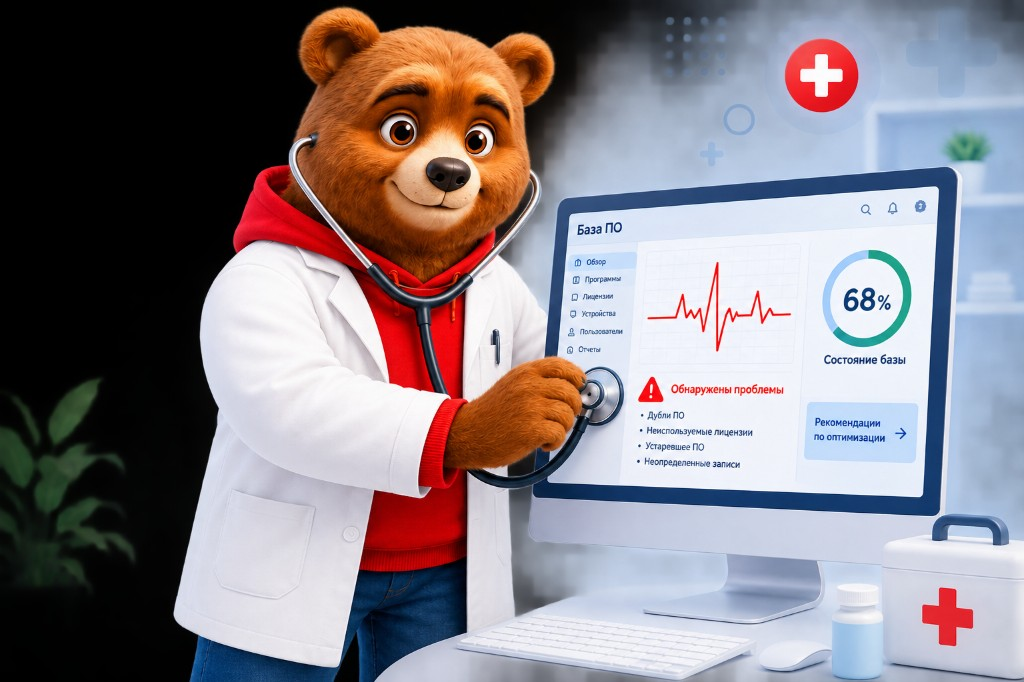
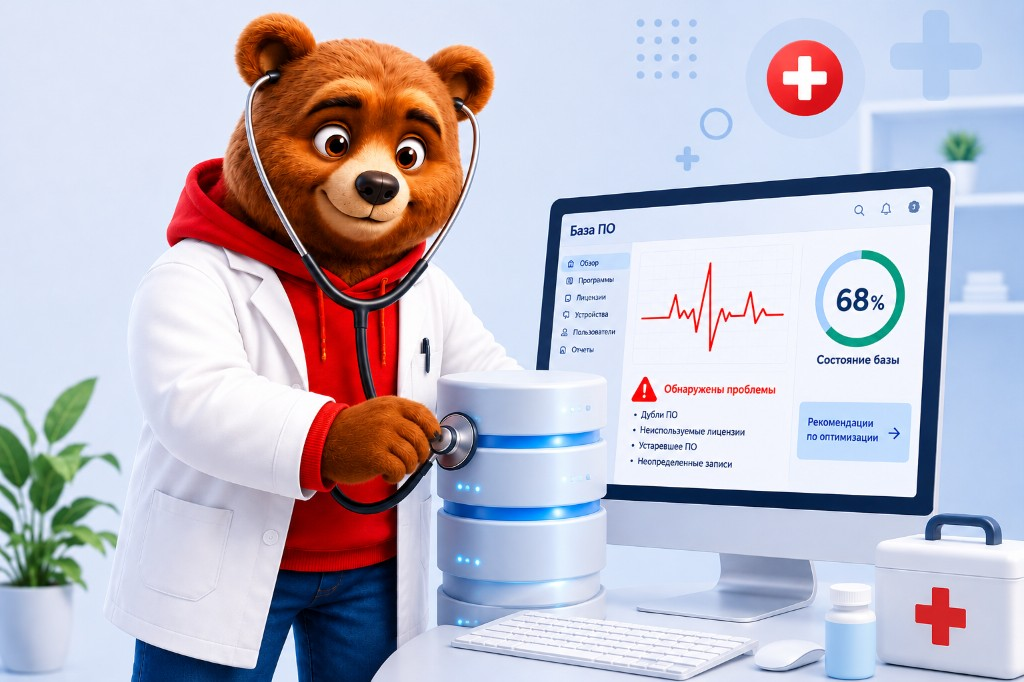
Заменить визуал врезки чекапа базы ПО.

diff --git a/klinika-b/index.html b/klinika-b/index.html
@@ -78,7 +78,7 @@
         </div>
       </div>
       <aside class="checkup-callout">
-        <img class="checkup-callout__img" src="assets/checkup-inset.jpg" alt="Чекап базы ПО: отчет о проблемах в инвентарных данных" width="640" height="360" loading="lazy">
+        <img class="checkup-callout__img" src="assets/checkup-inset.jpg?v=2" alt="Чекап базы ПО: отчет о проблемах в инвентарных данных" width="640" height="360" loading="lazy">
         <div class="checkup-callout__body">
           <h3 class="checkup-callout__title">Чекап базы ПО</h3>
           <p class="checkup-callout__text">
